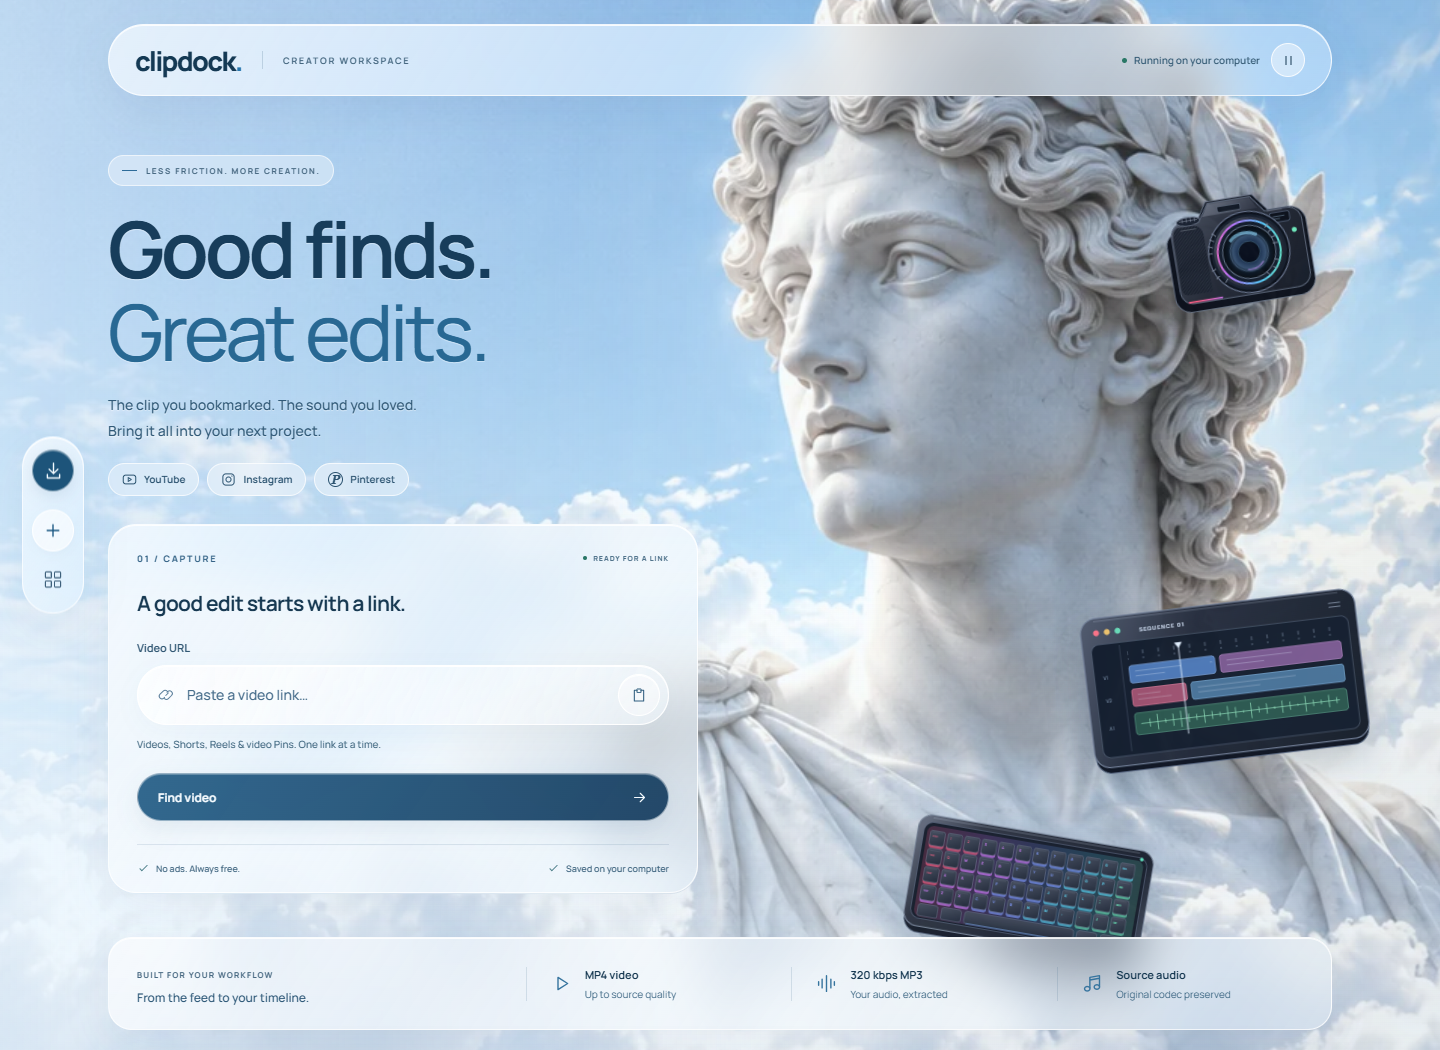
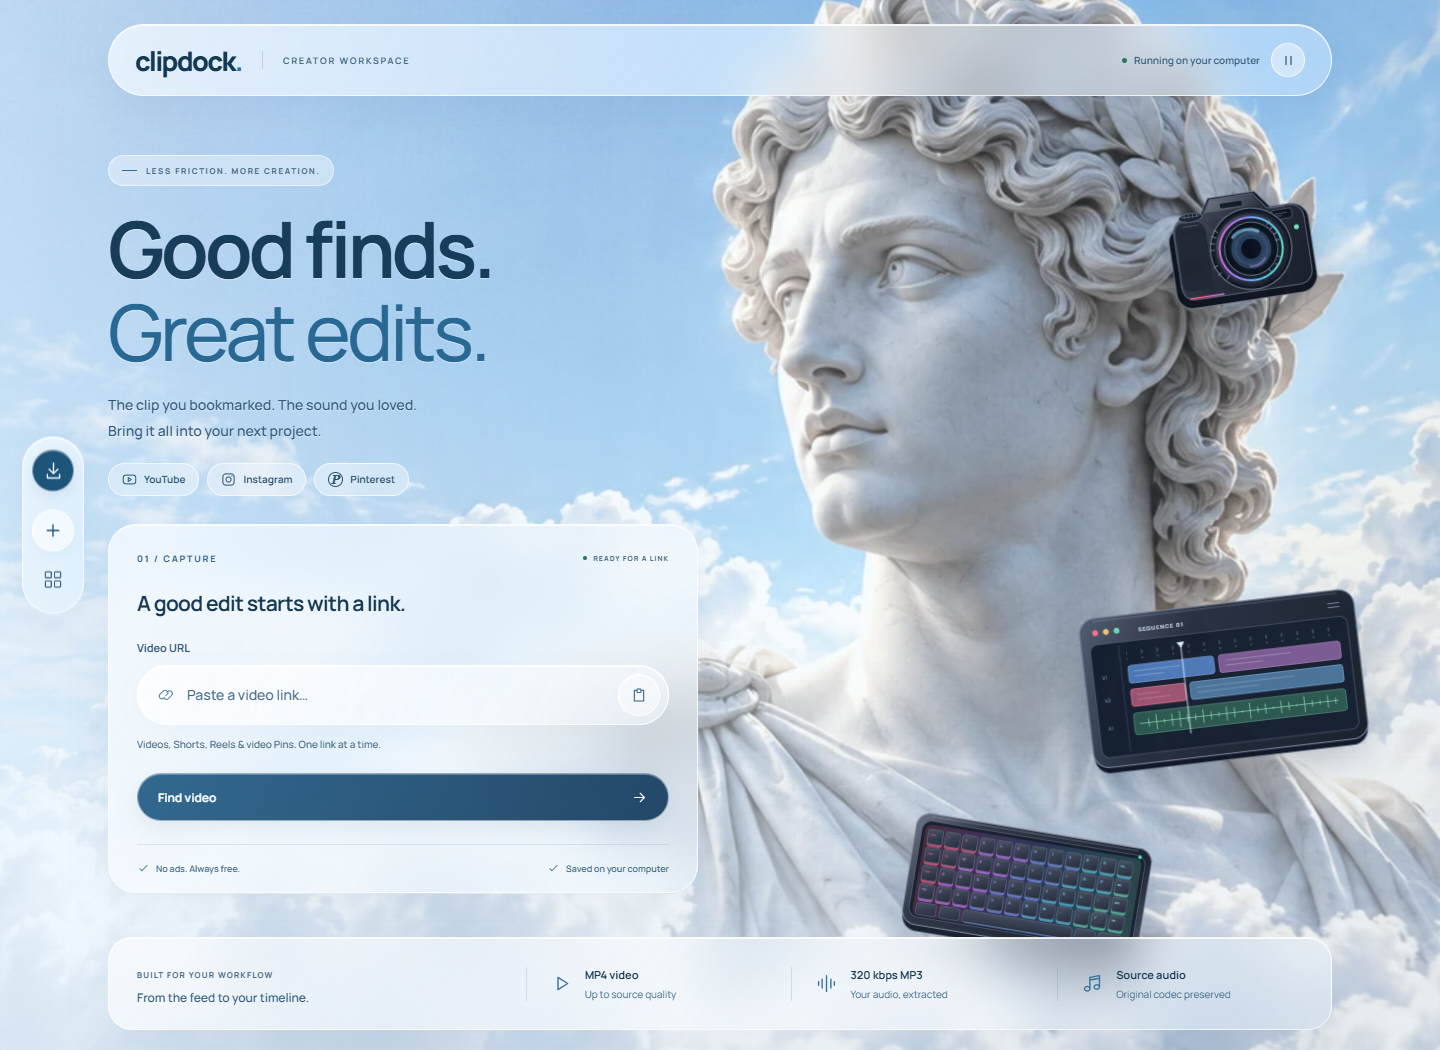
feat: UI/UX update with cloud sway and cursor-following eyes

diff --git a/clipdock/static/app.js b/clipdock/static/app.js
@@ -138,18 +138,43 @@ function updateNavigation() {
 window.addEventListener('hashchange', updateNavigation);
 function initializeAmbientResponse() {
   const finePointer = window.matchMedia('(hover: hover) and (pointer: fine)');
+  const scene = document.querySelector('.sky-scene');
+  const image = document.querySelector('.scene-image');
+  const details = document.querySelector('.scene-details');
+  const eyes = [...document.querySelectorAll('.eye-iris')].map(element => ({
+    element, x:Number(element.dataset.eyeX), y:Number(element.dataset.eyeY),
+    rangeX:Number(element.dataset.eyeRangeX), rangeY:Number(element.dataset.eyeRangeY),
+    current:{x:0,y:0}, target:{x:0,y:0}
+  }));
   const states = [...document.querySelectorAll('.floating-object')].map((element, index) => ({
     element, layer: element.querySelector('.object-response'), depth: [1, .8, .65][index] || 1,
     current: {x:0, y:0, rx:0, ry:0, glow:0}, target: {x:0, y:0, rx:0, ry:0, glow:0}
   }));
-  let paused = true, pointer = null, dirty = false, frame = null, previousTime = 0;
+  let paused = true, pointer = null, gazePointer = null, portrait = null, dirty = false, frame = null, previousTime = 0;
+  function alignPortrait() {
+    if (!image.naturalWidth || !image.naturalHeight) return;
+    const box = image.getBoundingClientRect(), host = scene.getBoundingClientRect();
+    const scale = Math.max(box.width / image.naturalWidth, box.height / image.naturalHeight);
+    const [positionX, positionY] = getComputedStyle(image).objectPosition.split(' ').map(value => Number.parseFloat(value) / 100);
+    const width = image.naturalWidth * scale, height = image.naturalHeight * scale;
+    const left = box.x - host.x + (box.width - width) * (Number.isFinite(positionX) ? positionX : .5);
+    const top = box.y - host.y + (box.height - height) * (Number.isFinite(positionY) ? positionY : .5);
+    portrait = {left:left + host.x, top:top + host.y, scale};
+    Object.assign(details.style, {left:`${left}px`, top:`${top}px`, width:`${width}px`, height:`${height}px`});
+    details.classList.add('is-aligned');
+    dirty = true; schedule();
+  }
   function reset() {
     if (frame !== null) cancelAnimationFrame(frame);
-    frame = null; previousTime = 0; pointer = null; dirty = false;
+    frame = null; previousTime = 0; pointer = null; gazePointer = null; dirty = false;
     states.forEach(state => {
       for (const key of Object.keys(state.current)) state.current[key] = state.target[key] = 0;
       state.layer.style.removeProperty('transform');
       state.layer.style.removeProperty('--pointer-glow');
+    });
+    eyes.forEach(eye => {
+      eye.current.x = eye.current.y = eye.target.x = eye.target.y = 0;
+      eye.element.style.removeProperty('transform');
     });
   }
   function schedule() {
@@ -176,6 +201,14 @@ function initializeAmbientResponse() {
           rx: ny * influence * 11, ry: -nx * influence * 14, glow: influence
         });
       });
+      eyes.forEach(eye => {
+        const dx = gazePointer && portrait ? gazePointer.x - portrait.left - eye.x * portrait.scale : 0;
+        const dy = gazePointer && portrait ? gazePointer.y - portrait.top - eye.y * portrait.scale : 0;
+        const distance = Math.hypot(dx,dy);
+        const strength = Math.min(1, distance / 160);
+        eye.target.x = dx / (distance || 1) * eye.rangeX * strength;
+        eye.target.y = dy / (distance || 1) * eye.rangeY * strength;
+      });
       dirty = false;
     }
     const blend = 1 - Math.exp(-Math.min(40, previousTime ? time - previousTime : 16) / 90);
@@ -191,16 +224,29 @@ function initializeAmbientResponse() {
       state.layer.style.transform = `translate3d(${x.toFixed(3)}px, ${y.toFixed(3)}px, 0) rotateX(${rx.toFixed(3)}deg) rotateY(${ry.toFixed(3)}deg)`;
       state.layer.style.setProperty('--pointer-glow', glow.toFixed(3));
     });
+    eyes.forEach(eye => {
+      for (const key of ['x','y']) {
+        const difference = eye.target[key] - eye.current[key];
+        if (Math.abs(difference) > .005) { eye.current[key] += difference * blend; unsettled = true; }
+        else eye.current[key] = eye.target[key];
+      }
+      eye.element.style.transform = `translate(${eye.current.x.toFixed(3)}px, ${eye.current.y.toFixed(3)}px)`;
+    });
     if (unsettled) schedule(); else previousTime = 0;
   }
   window.addEventListener('pointermove', event => {
     if (paused || !finePointer.matches || event.pointerType === 'touch') return;
-    pointer = {x:event.clientX, y:event.clientY}; dirty = true; schedule();
+    pointer = gazePointer = {x:event.clientX, y:event.clientY}; dirty = true; schedule();
   }, {passive:true});
   function leave() { pointer = null; dirty = true; schedule(); }
   document.documentElement.addEventListener('pointerleave', leave);
   window.addEventListener('blur', leave);
-  window.addEventListener('resize', () => { if (pointer) { dirty = true; schedule(); } }, {passive:true});
+  window.addEventListener('resize', alignPortrait, {passive:true});
+  // Media-query crop changes can settle after the window's resize event.
+  window.matchMedia('(max-width: 760px)').addEventListener('change', alignPortrait);
+  if ('ResizeObserver' in window) new ResizeObserver(alignPortrait).observe(image);
+  image.addEventListener('load', alignPortrait);
+  alignPortrait();
   finePointer.addEventListener('change', reset);
   return {setPaused(value) { paused = value; if (paused || !finePointer.matches) reset(); }};
 }

diff --git a/clipdock/static/style.css b/clipdock/static/style.css
@@ -25,7 +25,12 @@ button:focus-visible, a:focus-visible, input:focus-visible, select:focus-visible
 .skip-link { position: fixed; top: 12px; left: 20px; z-index: 30; padding: 12px 20px; background: #fff; color: var(--ink); border-radius: 999px; }
 .skip-link:not(:focus) { width: 1px; height: 1px; margin: -1px; padding: 0; overflow: hidden; clip-path: inset(50%); white-space: nowrap; }
 .sky-scene { position: fixed; inset: 0; z-index: -2; overflow: hidden; pointer-events: none; }
-.scene-image { position: absolute; inset: -5%; width: 110%; height: 110%; object-fit: cover; object-position: 65% center; animation: sky-drift 36s ease-in-out infinite alternate; will-change: transform; }
+.scene-image { position: absolute; inset: -5%; width: 110%; height: 110%; object-fit: cover; object-position: 65% center; }
+.scene-details { position: absolute; overflow: visible; pointer-events: none; visibility: hidden; }
+.scene-details.is-aligned { visibility: visible; }
+.cloud-layer-far { animation: cloud-sway-far 32s ease-in-out infinite alternate; }
+.cloud-layer-near { animation: cloud-sway-near 27s ease-in-out infinite alternate; }
+.eye-iris { transform-box: view-box; transform-origin: 0 0; }
 .scene-wash { position: absolute; inset: 0; background: linear-gradient(90deg, #e8f5ffb5 0%, #e8f5ff65 38%, #edf7ff0d 68%, #163a5510), linear-gradient(180deg, #e7f4ff18 50%, #e8f4ff6b 100%); }
 .ambient-elements { position: fixed; inset: 0; z-index: -1; overflow: hidden; pointer-events: none; }
 .floating-object { position: absolute; pointer-events: none; perspective: 800px; }
@@ -35,8 +40,8 @@ button:focus-visible, a:focus-visible, input:focus-visible, select:focus-visible
 .floating-keyboard { width: 245px; right: 20%; bottom: 9%; opacity: .94; animation: keyboard-float 23s ease-in-out infinite; }
 .floating-timeline { width: 284px; top: 57%; right: 5%; opacity: .96; animation: timeline-float 26s ease-in-out infinite; }
 .ambient-playhead { animation: playhead-drift 9s ease-in-out infinite alternate; }
-.ambient-paused .scene-image, .ambient-paused .floating-object, .ambient-paused .ambient-playhead,
-.page-hidden .scene-image, .page-hidden .floating-object, .page-hidden .ambient-playhead { animation-play-state: paused; }
+.ambient-paused .cloud-layer, .ambient-paused .floating-object, .ambient-paused .ambient-playhead,
+.page-hidden .cloud-layer, .page-hidden .floating-object, .page-hidden .ambient-playhead { animation-play-state: paused; }
 .rail, .topbar, .save-card, .library, .workflow-strip, footer { background: var(--glass); border: 1px solid var(--glass-border); box-shadow: var(--glass-shadow); -webkit-backdrop-filter: blur(24px) saturate(1.2); backdrop-filter: blur(24px) saturate(1.2); }
 .rail { position: fixed; left: 22px; top: 50%; transform: translateY(-50%); width: 62px; z-index: 5; border-radius: 999px; display: flex; align-items: center; flex-direction: column; padding: 12px 8px; }
 .rail-logo { display: grid; place-items: center; width: 42px; height: 42px; background: #1d547a; color: #f2faff; border: 1px solid #fff7; border-radius: 50%; box-shadow: inset 0 1px 0 #fff4, 0 5px 16px #18446b1c; }
@@ -183,7 +188,8 @@ footer p { font-size: 8px; max-width: 440px; text-align: center; margin: 0; }
 #video-preview:not([hidden]) { animation: preview-in .4s cubic-bezier(.16,1,.3,1) both; }
 #toast:not([hidden]) { animation: toast-in .25s ease-out both; }
 .spin { animation: pulse 1s infinite alternate; }
-@keyframes sky-drift { from { transform: scale(1.015) translate3d(0, 0, 0); } to { transform: scale(1.065) translate3d(-.5%, .4%, 0); } }
+@keyframes cloud-sway-far { from { transform: translate3d(-2px, -.4px, 0); } to { transform: translate3d(2px, .5px, 0); } }
+@keyframes cloud-sway-near { from { transform: translate3d(1.8px, .4px, 0); } to { transform: translate3d(-1.8px, -.5px, 0); } }
 @keyframes camera-float { 0%, 100% { transform: translate3d(0,0,0) rotate(-10deg); } 30% { transform: translate3d(25px,-25px,0) rotate(-4deg); } 65% { transform: translate3d(-14px,14px,0) rotate(-12deg); } }
 @keyframes keyboard-float { 0%, 100% { transform: translate3d(0,0,0) rotate(10deg); } 35% { transform: translate3d(-27px,-24px,0) rotate(4deg); } 70% { transform: translate3d(17px,-8px,0) rotate(13deg); } }
 @keyframes timeline-float { 0%, 100% { transform: translate3d(0,0,0) rotate(-7deg); } 40% { transform: translate3d(-23px,22px,0) rotate(-2deg); } 75% { transform: translate3d(14px,-15px,0) rotate(-9deg); } }
@@ -201,6 +207,5 @@ footer p { font-size: 8px; max-width: 440px; text-align: center; margin: 0; }
 @media (prefers-reduced-motion: reduce) {
   *, *::before, *::after { scroll-behavior: auto !important; animation: none !important; transition: none !important; }
   .motion-ready [data-reveal] { opacity: 1; transform: none; }
-  .scene-image { will-change: auto; }
-  .object-response { transform: none !important; }
+  .object-response, .eye-iris { transform: none !important; }
 }

diff --git a/clipdock/static/index.html b/clipdock/static/index.html
@@ -35,6 +35,29 @@
 </svg>
 <div class="sky-scene" aria-hidden="true">
   <img class="scene-image" src="/static/apollo-sky.webp" alt="" width="2022" height="778" fetchpriority="high">
+  <svg class="scene-details" viewBox="0 0 2022 778" preserveAspectRatio="none">
+    <defs>
+      <radialGradient id="left-cloud-fade"><stop offset="0" stop-color="#fff"/><stop offset=".55" stop-color="#fff"/><stop offset="1" stop-color="#000"/></radialGradient>
+      <linearGradient id="lower-cloud-fade" x1="0" y1="550" x2="0" y2="778" gradientUnits="userSpaceOnUse"><stop offset="0" stop-color="#000"/><stop offset=".25" stop-color="#000"/><stop offset="1" stop-color="#fff"/></linearGradient>
+      <mask id="cloud-left-mask" maskUnits="userSpaceOnUse" x="0" y="0" width="2022" height="778"><rect width="2022" height="778" fill="#000"/><ellipse cx="230" cy="355" rx="490" ry="250" fill="url(#left-cloud-fade)"/></mask>
+      <mask id="cloud-lower-mask" maskUnits="userSpaceOnUse" x="0" y="0" width="2022" height="778"><rect width="2022" height="778" fill="url(#lower-cloud-fade)"/></mask>
+      <filter id="eye-edge-feather" x="-15%" y="-30%" width="130%" height="160%"><feGaussianBlur stdDeviation=".8"/></filter>
+      <mask id="near-eye-aperture" maskUnits="userSpaceOnUse" x="1258" y="205" width="55" height="30"><path d="M1262.4 225.6C1266.3 219.6 1266.5 210.6 1274.6 209.4C1285 208.8 1297.4 214.5 1307.5 219.2C1298 224.5 1281 229.7 1262.4 227.4Z" fill="#fff" filter="url(#eye-edge-feather)"/></mask>
+      <mask id="far-eye-aperture" maskUnits="userSpaceOnUse" x="1194" y="228" width="18" height="26"><path d="M1197.6 235.7Q1200.4 230.4 1208.1 232.2L1204.7 246.3Q1200.4 251 1198.8 245Z" fill="#fff" filter="url(#eye-edge-feather)"/></mask>
+    </defs>
+    <g mask="url(#cloud-left-mask)"><g class="cloud-layer cloud-layer-far"><image href="/static/apollo-sky.webp" width="2022" height="778"/></g></g>
+    <g mask="url(#cloud-lower-mask)"><g class="cloud-layer cloud-layer-near"><image href="/static/apollo-sky.webp" width="2022" height="778"/></g></g>
+    <g class="eye-socket" mask="url(#near-eye-aperture)">
+      <g class="eye-iris" data-eye-x="1275" data-eye-y="215" data-eye-range-x="4.5" data-eye-range-y="1.4">
+        <image href="/static/apollo-sky.webp" width="2022" height="778"/>
+      </g>
+    </g>
+    <g class="eye-socket" mask="url(#far-eye-aperture)">
+      <g class="eye-iris" data-eye-x="1202" data-eye-y="238" data-eye-range-x="1.1" data-eye-range-y="1.1">
+        <image href="/static/apollo-sky.webp" width="2022" height="778"/>
+      </g>
+    </g>
+  </svg>
   <div class="scene-wash"></div>
 </div>
 <div class="ambient-elements" aria-hidden="true">

diff --git a/clipdock/__init__.py b/clipdock/__init__.py
@@ -1,3 +1,3 @@
 """ClipDock: local video downloads with a web interface and terminal commands."""
 
-__version__ = "0.7.0"
+__version__ = "0.8.0"

diff --git a/docs/ASSETS.md b/docs/ASSETS.md
@@ -4,6 +4,8 @@
 
 The artwork fills the page background. The graphite camera, RGB mechanical keyboard, timeline, and waveform are original decorative SVG elements with material shading and layered details. Cursor proximity adds tilt, repulsion, and a lighting response; the artwork stays behind the download controls. ClipDock is a downloader; these illustrations do not represent a video-editing feature.
 
+Cloud sway and eye tracking use masked copies of the same local artwork. The eye layers preserve the original marble texture and stay aligned with the background's cover crop; no additional image service or animation library is used.
+
 ## Typeface
 
 Manrope is self-hosted as `clipdock/static/manrope-latin.woff2`, using the Latin variable-font subset from [Google Fonts](https://fonts.google.com/specimen/Manrope). The unmodified [Open Font License](https://github.com/google/fonts/blob/main/ofl/manrope/OFL.txt) is bundled in `clipdock/static/Manrope-OFL.txt`. No font service is contacted at runtime.

diff --git a/CHANGELOG.md b/CHANGELOG.md
@@ -1,5 +1,12 @@
 # Changelog
 
+## 0.8.0 — 2026-11-01
+
+- Slight independent swaying of the existing cloud areas while the statue stays still.
+- Marble eyes track the cursor across the whole page using photo-textured, feathered eye layers.
+- Eye and cloud layers stay aligned with the background when resizing or changing device orientation.
+- Eye tracking shares the existing cursor animation loop and respects pause, reduced-motion, hidden tabs, and touch input.
+
 ## 0.7.0 — 2026-11-01
 
 - Dark graphite camera with layered lens optics, mechanical keycaps with RGB lighting, and a dark editing timeline with colored tracks.
